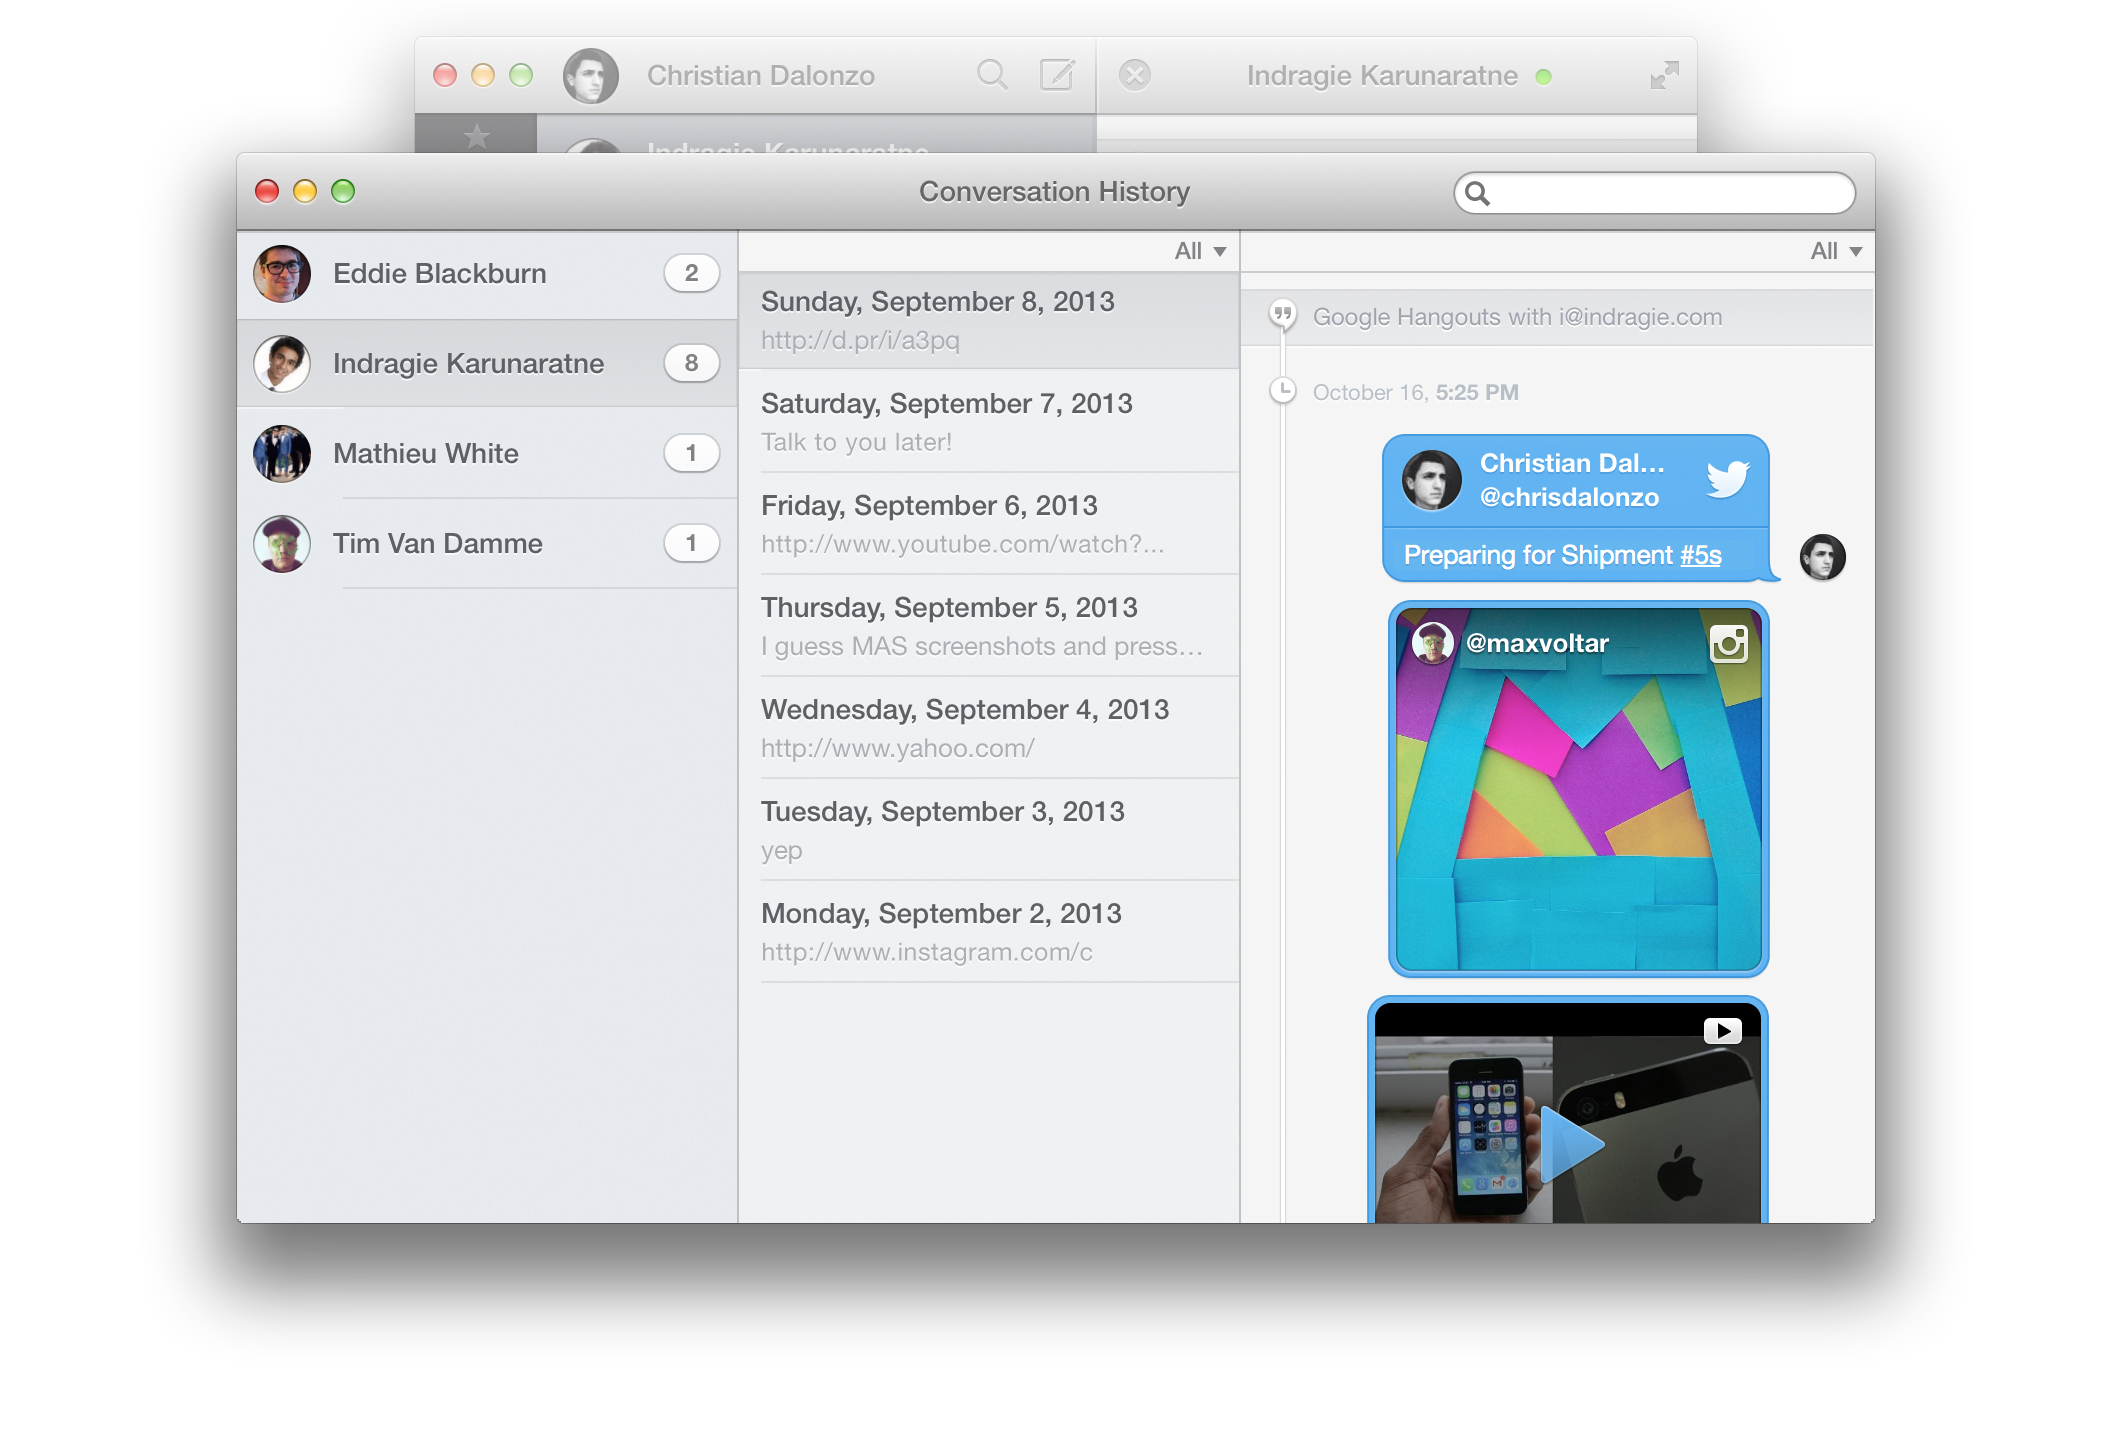
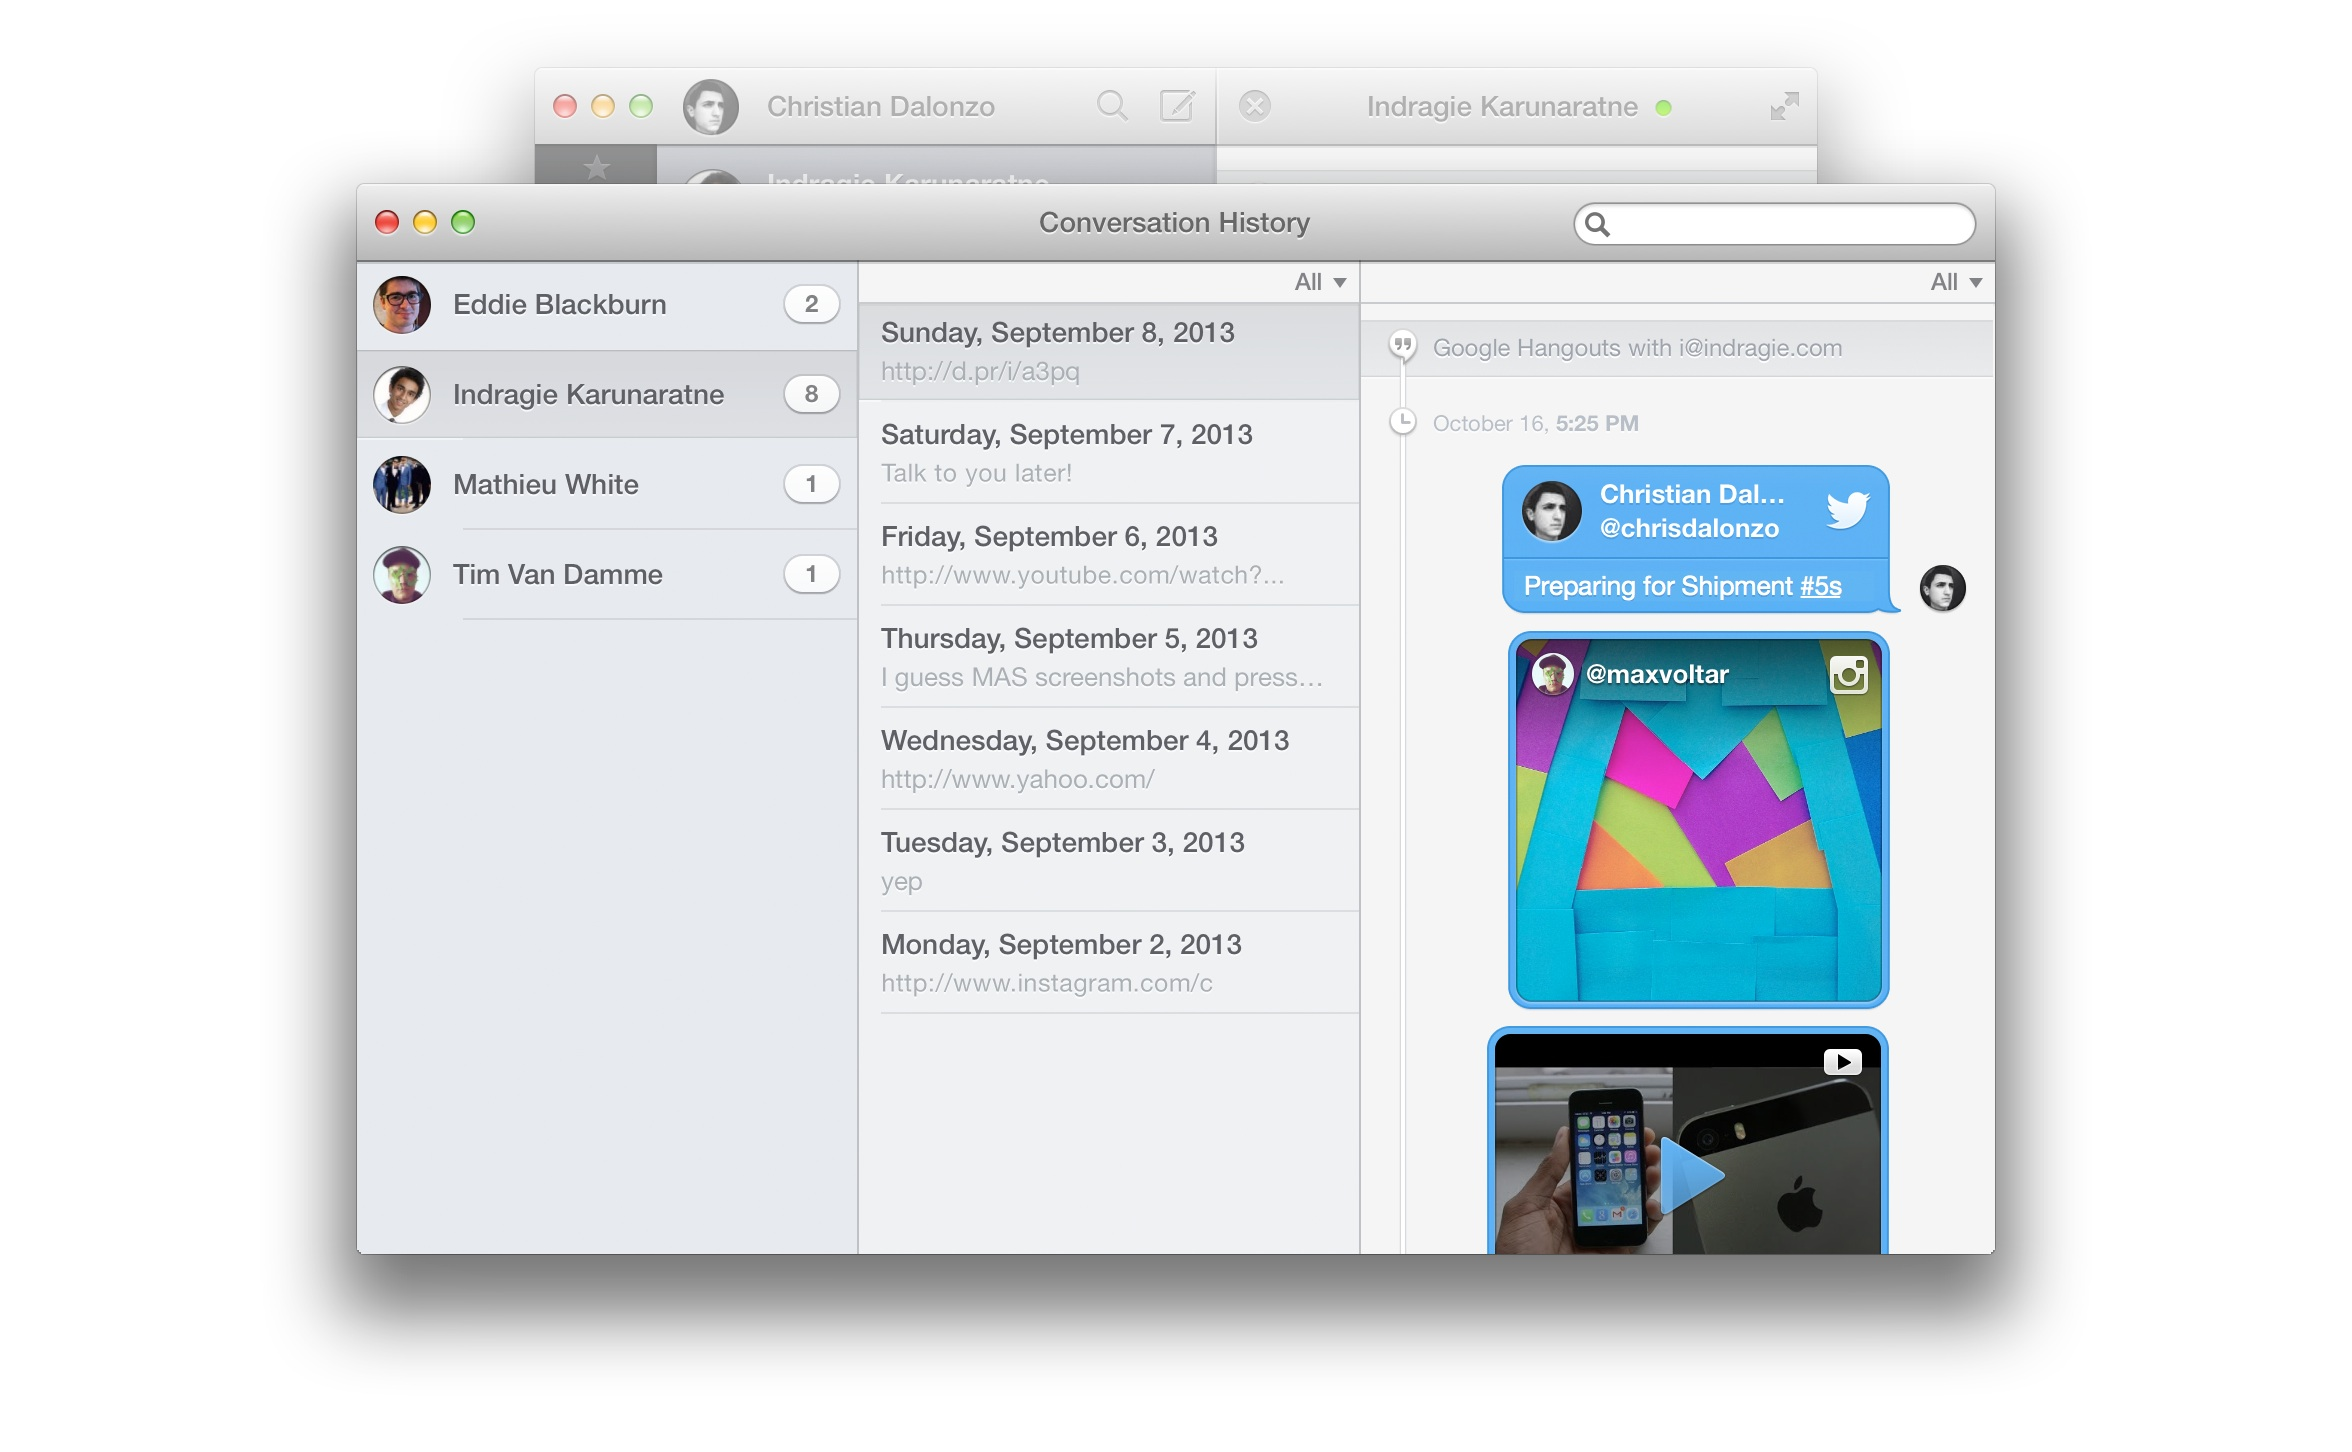
Compress large PNG images

Changed region(s): [[0.0625, 0.031, 0.9375, 0.9298], [0.3438, 0.6198, 0.5312, 0.6818]]

diff --git a/style.css b/style.css
@@ -456,7 +456,7 @@ body {
 }
 
 #inline-media .screenshot {
-	background-image: url('images/inline-media-examples.png');
+	background-image: url('images/inline-media-examples.jpg');
 	width: 900px; height: 270px;
 	margin-left: 26px;
 	margin-top: 54px;

diff --git a/retina.css b/retina.css
@@ -109,7 +109,7 @@
 }
 
 #inline-media .screenshot {
-	background-image: url('images/inline-media-examples@2x.png');
+	background-image: url('images/inline-media-examples@2x.jpg');
 	background-size: 100%;
 }
 
